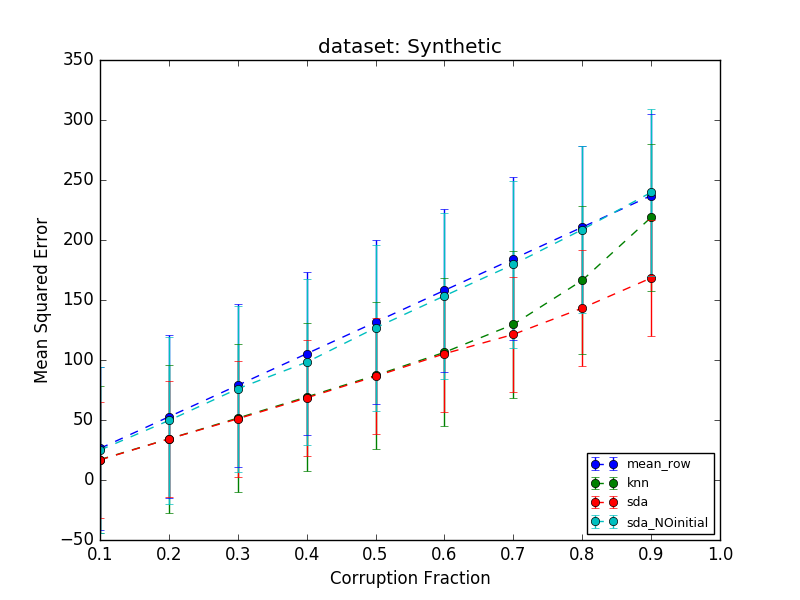
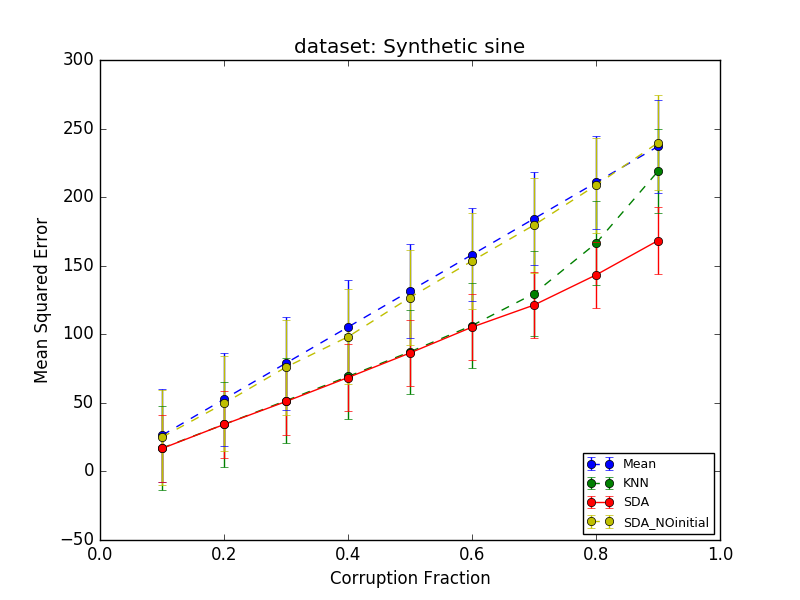
mod

diff --git a/ex_sin.py b/ex_sin.py
@@ -17,7 +17,7 @@ def syn_ph(nsamp,nfeat,doplot=False):
     uniform= np.sin(t+uni)
     plt.plot(t,np.sin(t),'r',t+uni,uniform,'b',t+uni,uniform+np.random.normal(0,.5,100),'bo')
     """
-    
+    frequ=[1,2,3,4]
     X = np.zeros((nsamp,nfeat))
     t = np.linspace(0,2*np.pi,nfeat)
     if doplot:
@@ -26,7 +26,8 @@ def syn_ph(nsamp,nfeat,doplot=False):
     for i in range(nsamp):
         ph = np.random.uniform(0,2*np.pi)
         #ph = np.random.uniform(-3,3)
-        X[i,:] = np.sin(t+ph) + np.random.normal(0,.3,nfeat) 
+        np.random.shuffle(frequ)
+        X[i,:] = np.sin(frequ[0]*t+ph) + np.random.normal(0,.9,nfeat) #.3 
         if doplot:           
             plot(t,X[i,:],'r.')
     if doplot:
@@ -34,7 +35,7 @@ def syn_ph(nsamp,nfeat,doplot=False):
  
     return X
 
-dat=syn_ph(1000,200)
+dat=syn_ph(1000,200) #1000,200
 print(dat.shape)
 data_name = str('sine')
 
@@ -114,9 +115,9 @@ for kfold in range(cross_vali):
                           training_epochs = 300,
                           finetune_lr = 0.0001,
                           batch_size = 50,
-                          hidden_size = [250,100,2],#,10,2],  # 1st lay_unit: 4/3*input_size[400,100,20,3
-                          corruption_da = [0.2,0.1, 0.1,0.1,.1,.2,.1],
-                          drop = [0. ,0.3, 0.,0.0,0.,0.],
+                          hidden_size = [250,100,50,8],#,10,2],  # 1st lay_unit: 4/3*input_size[400,100,20,3
+                          corruption_da = [0.2,0.1, 0.1,0.1,0.1,0.1,0.1],
+                          drop = [0.1 ,0., 0.,0.0,0.,0.],
                           dA_initiall = True ,
                           error_known = True ,
                           activ_fun = T.tanh)  #T.nnet.sigmoid)
@@ -135,14 +136,14 @@ for kfold in range(cross_vali):
                           problem = 'regression',
                           available_mask = mask,
                           method = 'adam',
-                          pretraining_epochs =300,
+                          pretraining_epochs =200,
                           pretrain_lr = 0.0001,
                           training_epochs = 300,
                           finetune_lr = 0.0001,
-                          batch_size = 100,
-                          hidden_size = [250,100,2],  # 1st lay_unit: 4/3*input_size[400,100,20,3
+                          batch_size = 50,
+                          hidden_size = [250,100,50,8],#,10,2],  # 1st lay_unit: 4/3*input_size[400,100,20,3
                           corruption_da = [0.2,0.1, 0.1,0.1,.1,.2,.1],
-                          drop = [0. ,0.3, 0.,0.0,0.,0.],
+                          drop = [0.1 ,0., 0.,0.0,0.,0.],
                           dA_initiall = False ,
                           error_known = True ,
                           activ_fun = T.tanh)  #T.nnet.sigmoid)
@@ -190,23 +191,24 @@ sda2_error=sda2_error.reshape(50,9)
 missing_percent=np.linspace(0.1,0.9,9)
 
 
-mean_con=np.std(mean_error)
-knn_con=np.std(knn_error)
-sda_con=np.std(sda_error)
-sda2_con=np.std(sda2_error)
+mean_con=np.std(mean_error)/2
+knn_con=np.std(knn_error)/2
+sda_con=np.std(sda_error)/2
+sda2_con=np.std(sda2_error)/2
 
 
 plt.figure()
-plt.errorbar(missing_percent,np.mean(mean_error,axis=0),yerr=mean_con,fmt='--o',label='mean_row')
-plt.errorbar(missing_percent,np.mean(knn_error,axis=0),yerr=knn_con,fmt='--o',label='knn' )
-plt.errorbar(missing_percent,np.mean(sda_error,axis=0),yerr=sda_con,fmt='--o',label='sda')
-plt.errorbar(missing_percent,np.mean(sda2_error,axis=0),yerr=sda2_con,fmt='--o',label='sda_NOinitial')
-
+plt.errorbar(missing_percent,np.mean(mean_error,axis=0),yerr=mean_con,fmt='--o',label='Mean')
+plt.errorbar(missing_percent,np.mean(knn_error,axis=0),yerr=knn_con,fmt='--o',label='KNN' )
+plt.errorbar(missing_percent,np.mean(sda_error,axis=0),yerr=sda_con,fmt='-o',label='SDA')
+plt.errorbar(missing_percent,np.mean(sda2_error,axis=0),yerr=sda2_con,fmt='y--o',label='SDA_NOinitial')
+plt.axis([0,1,-50,300])
 plt.xlabel('Corruption Fraction')
 plt.ylabel('Mean Squared Error')
-plt.title('dataset: Synthetic')
+plt.title('dataset: Synthetic sine')
 plt.legend(loc=4,prop={'size':9})
 plt.show()
+
 
 
 """

diff --git a/dA.py b/dA.py
@@ -1,4 +1,7 @@
-import numpy
+from __future__ import division, absolute_import
+from __future__ import print_function, unicode_literals
+
+import numpy as np
 import lasagne
 
 import theano
@@ -18,40 +21,20 @@ class dA(object):
         self.n_hidden = n_hidden
         self.method=method
         self.activ = activation
-        
-        if not theano_rng:
-            theano_rng = RandomStreams(numpy_rng.randint(2 ** 30))
-        if not W:
-            initial_W = numpy.asarray(
-                numpy_rng.uniform(
-                    low=-4 * numpy.sqrt(6. / (n_hidden + n_visible)),
-                    high=4 * numpy.sqrt(6. / (n_hidden + n_visible)),
-                    size=(n_visible, n_hidden)
-                ),
-                dtype=theano.config.floatX
-            )
-            W = theano.shared(value=initial_W, name='W', borrow=True)
 
+        self.srng = RandomStreams()
+               
+        if not W:            
+            W = theano.shared(self.floatX(np.random.randn(*shape) * 0.1), name='W', borrow=True)
+          
         if not bvis:
-            bvis = theano.shared(
-                value=numpy.zeros(
-                    n_visible,
-                    dtype=theano.config.floatX
-                ),
-                name='b_prime',
-                borrow=True
-            )
-            
+            bvis = theano.shared(self.floatX( np.zeros((n_visible,))), name='b_prime', borrow=True)
+      
         if not bhid:
-            bhid = theano.shared(
-                value=numpy.zeros(
-                    n_hidden,
-                    dtype=theano.config.floatX
-                ),
-                name='b',
-                borrow=True
-            )
-            
+            bhid = theano.shared(self.floatX( np.zeros((n_hidden,))), name='b', borrow=True)
+    
+
+
         self.W = W
         self.b = bhid
         self.b_prime = bvis
@@ -67,11 +50,13 @@ class dA(object):
         self.main_params=[self.W,self.b]
         
 
-    def get_corrupted_input(self, input, corruption_level):
-        
-        return self.theano_rng.binomial(size=input.shape, n=1,
-                                        p=1 - corruption_level,
-                                        dtype=theano.config.floatX) * input
+    def get_corrupted_input(self, X, p=0.):
+
+        retain_prob = 1 - p
+        X *= self.srng.binomial(X.shape, p=retain_prob, dtype=theano.config.floatX)
+        X /= retain_prob
+        return X
+
 
     def get_hidden_values(self, input):
         if self.activ is None:
@@ -93,7 +78,7 @@ class dA(object):
         
         ################## add l2 regularization #################
         lamb1 = 0.001 #1e-5
-        lamb2 = 1e-4
+        lamb2 = 1e-5
         #L2 = lasagne.regularization.apply_penalty(self.params, lasagne.regularization.l2)
         #L1 = lasagne.regularization.apply_penalty(self.params, lasagne.regularization.l1) * lambda1
 
@@ -118,5 +103,6 @@ class dA(object):
         return self.get_hidden_values(self.x)
 
 
-
+    def floatX(self,X):
+        return np.asarray(X, dtype=theano.config.floatX)
 

diff --git a/perceptron.py b/perceptron.py
@@ -3,76 +3,8 @@ from theano import tensor as T
 from theano.sandbox.rng_mrg import MRG_RandomStreams as RandomStreams
 import numpy as np
 
-"""
-class perceptron(object):
-    def __init__(self, rng=None,theano_rng=None,
-                 input=None, n_in=None , n_out=None,
-                 W=None, b=None,
-                 activation=None,
-                 decoder=False,
-                 first_layer_corrup=False,
-                 drop = None):
-
-        self.srng = RandomStreams()
-        self.input = input       
-        if not rng:
-            rng = np.random.RandomState(123)
-        if not theano_rng:
-            theano_rng = RandomStreams(rng.randint(2 ** 30))       
 
 
-        if W is None:
-            
-            W_values = np.asarray(
-                rng.uniform(
-                    low=-np.sqrt(6. / (n_in + n_out)),
-                    high=np.sqrt(6. / (n_in + n_out)),
-                    size=(n_in, n_out)
-                ),
-                dtype=theano.config.floatX
-            )
-            if activation == T.nnet.sigmoid:
-                W_values *= 4
-
-            W = theano.shared(value=W_values, name='W', borrow=True)
-
-
-        if b is None:
-            b_values = np.zeros((n_out,), dtype=theano.config.floatX)
-            b = theano.shared(value=b_values, name='b', borrow=True)
-
-   
-        if first_layer_corrup:
-            corruption_level = 0.1        
-            input = theano_rng.binomial(size=input.shape, n=1,
-                                        p=1 - corruption_level,
-                                        dtype=theano.config.floatX) * input
-       
-        self.W = W
-        self.b = b      
-
-
-        if decoder:
-            lin_output=T.dot(input, self.W.T) + self.b
-        else:
-            lin_output = T.dot(input, self.W) + self.b
-        self.output = (
-            lin_output if activation is None
-            else activation(lin_output)
-        )
-        
-        self.params = [self.W, self.b]
-
-    def dropout(self, X, p=0.):
-        if p > 0:
-            retain_prob = 1 - p
-            X *= self.srng.binomial(X.shape, p=retain_prob, dtype=theano.config.floatX)
-            X /= retain_prob
-        return X
-
-       
-
-"""
 class perceptron():
     def __init__(self,input=None, n_in=None , n_out=None, W=None,
                b=None, activation=None, decoder=False,
@@ -81,10 +13,10 @@ class perceptron():
         self.srng = RandomStreams()
         shape = (n_in, n_out)
        
-        if W is None:            
+        if not W:            
             W = theano.shared(self.floatX(np.random.randn(*shape) * 0.1), name='W', borrow=True)
           
-        if b is None:
+        if not b:
             b = theano.shared(self.floatX( np.zeros((n_out,))), name='b', borrow=True)
       
         

diff --git a/ex_mnist_block.py b/ex_mnist_block.py
@@ -10,7 +10,7 @@ from knn import knn
 import time
 import gzip, pickle
 
-
+import copy
 
 def MAE(x,xr,mas):
     return np.mean(np.sum((1-mas) * np.abs(x-xr),axis=1))
@@ -53,26 +53,26 @@ def mnist_block(mean_data,knn_data,train_set, valid_set, test_set, mis,k_neib):
                           problem = 'regression',
                           available_mask = mask,
                           method = 'adam',
-                          pretraining_epochs = 100,
+                          pretraining_epochs = 200,
                           pretrain_lr = 0.0001,
-                          training_epochs = 200,
+                          training_epochs = 300,
                           finetune_lr = 0.0001,
                           batch_size = 200,
-                          hidden_size = [2500,1000, 500,100, 10],
-                          drop = [.1 ,0.01, 0.,0., 0., 0.],
+                          hidden_size = [1000, 500,300,100, 10],  #4/3*input_siz(784)
+                          drop = [0. ,0., 0.,0., 0., 0.],
                           corruption_da = [0.1,0.2,.1,0.2,.1,.2,.1],
                           dA_initiall = True ,
                           error_known = True ,
-                          activ_fun = T.nnet.sigmoid)  #T.nnet.sigmoid)
+                          activ_fun = T.tanh)  #T.tanh
     gather.finetuning()
     tsda=time.time()-t0
        
 
     #print('time_knn',tknn,'time_sda',tsda)
 
-    sda_er = MAE(test_set, gather.gather_out(), test_mask)
-    kn_er = MAE(test_set,knn_result,test_mask)
-    mean_er = MAE(mean_data,train_set.mean(axis=0),train_mask)
+    sda_er = MSE(test_set, gather.gather_out(), test_mask)
+    kn_er = MSE(test_set,knn_result,test_mask)
+    mean_er = MSE(mean_data,train_set.mean(axis=0),train_mask)
     
     return(sda_er,kn_er,mean_er)
 
@@ -109,14 +109,15 @@ if __name__ == "__main__":
     knn_error=[]
     mean_error=[]
 
-    mean_data = train_set
-    knn_data = test_set
+    mean_data = copy.copy(train_set)
+    knn_data = copy.copy(test_set)
     
     ###k-neigbor####
     k_neib = 50
     
     missing_percent=np.linspace(0.1,0.9,9)  
-    #missing_percent=[0.4]
+    missing_percent=[0.1,0.5,0.7]
+    
     for mis in missing_percent:
         print('missing percentage: ',mis)       
         np.random.shuffle(train_set)
@@ -139,7 +140,7 @@ print('mean_error= ',mean_error)
     
 day=time.strftime("%d-%m-%Y")
 tim=time.strftime("%H-%M")
-result=open('result/result_{}_{}.dat'.format(day,tim),'w')
+result=open('result/result_{}_{}_{}.dat'.format(data_name,day,tim),'w')
 result.write('name of the data: {} with k={} for knn\n\n'.format(data_name,k_neib))
 result.write("mean_error= %s\n\nsda_error= %s\n\nknn_error= %s" % (str(mean_error), str(sda_error),str(knn_error)))
 result.close()

diff --git a/sda.py b/sda.py
@@ -197,6 +197,7 @@ class Sda(object):
 
         lamb1 = 1e-8
         lamb2 = 1e-5
+
         #L2 = lasagne.regularization.apply_penalty(self.params, lasagne.regularization.l2)
         #L1 = lasagne.regularization.apply_penalty(self.params, lasagne.regularization.l1)
         
